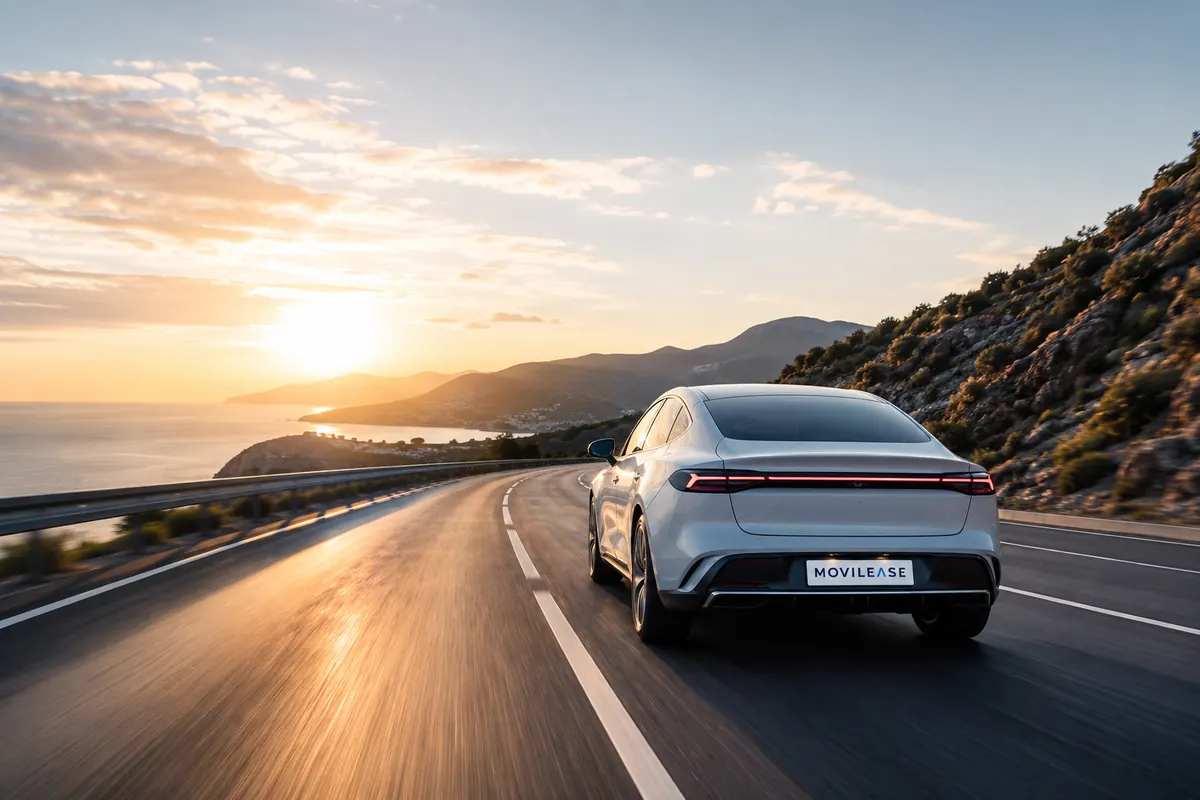
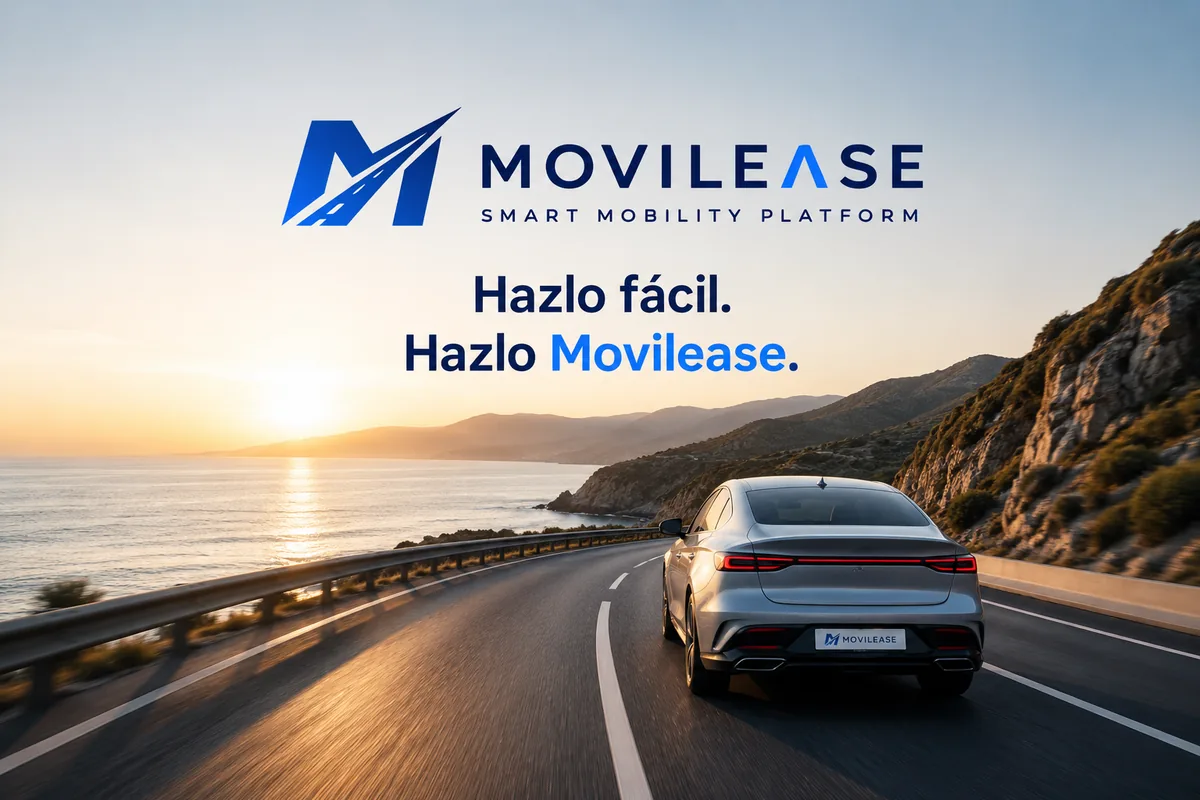
Pop-up con el creativo de marca a ancho completo y disparo a los 5 s
La imagen nueva trae dentro el logo, "Smart Mobility Platform", el eslogan
"Hazlo fácil. Hazlo Movilease." y el coche con matrícula MOVILEASE. En el
panel lateral del 46 % que tenía el pop-up, ese texto se cortaba y quedaba
ilegible, así que cambia la estructura:

- De dos columnas a una sola: banner de marca arriba a ancho completo y
  formulario debajo. Ancho máximo de 900 a 560px.
- El banner va en 16/10, casi la proporción original (3/2): recortar más se
  comía el logo. Con max-h 92vh y scroll interno para que entre en portátiles.
- El titular del formulario ya no repite el eslogan (lo dice la imagen):
  pasa directo a "Te lo calculamos gratis" y a pedir el teléfono.
- El alt describe el mensaje de la imagen, que ahora lleva texto dentro.

Disparo: 12 s -> 5 s y 22 % -> 10 % de scroll. La salida del puntero por
arriba sigue igual. Queda anotado en el código que es una decisión pedida y
cuál es la contrapartida, por si hay que revisarla con datos.

La imagen entra como WebP de 87 KB desde un PNG de 2,2 MB.

No he podido verlo renderizado: el navegador de esta sesión congela la
pestaña y React no llega a hidratar, así que el pop-up nunca llega a abrirse
ahí. Verificado el build, los tipos, el lint y que el WebP se sirve.

diff --git a/src/components/home/LeadPopup.tsx b/src/components/home/LeadPopup.tsx
@@ -23,10 +23,13 @@ export function LeadPopup() {
   const lastFocusedRef = useRef<HTMLElement | null>(null);
 
   /**
-   * Antes saltaba a los 6 segundos, sin más: interrumpía a media lectura del
-   * hero, cuando el visitante aún no sabe si le interesa. Ahora espera una
-   * señal de intención — que haya leído media página o que el cursor se vaya
-   * hacia la barra del navegador — con un plazo largo como último recurso.
+   * Se abre con lo que ocurra antes: 10 % de scroll, salida del puntero por
+   * arriba (intención de abandonar) o 5 segundos.
+   *
+   * El plazo corto lo pidió Adrián expresamente. Contrapartida conocida: a los
+   * 5 segundos mucha gente sigue leyendo el hero y aún no sabe si le interesa,
+   * así que se ve más veces pero también molesta más. Si el ratio de cierres
+   * sin rellenar sube, subir este número es lo primero que hay que tocar.
    */
   useEffect(() => {
     if (typeof window === "undefined") return;
@@ -43,13 +46,13 @@ export function LeadPopup() {
 
     const onScroll = () => {
       const max = document.documentElement.scrollHeight - window.innerHeight;
-      if (max > 0 && window.scrollY / max > 0.22) trigger();
+      if (max > 0 && window.scrollY / max > 0.10) trigger();
     };
     // Salida del puntero por el borde superior = intención de abandonar
     const onLeave = (e: MouseEvent) => {
       if (e.clientY <= 4) trigger();
     };
-    const timer = window.setTimeout(trigger, 12000);
+    const timer = window.setTimeout(trigger, 5000);
 
     function cleanup() {
       window.clearTimeout(timer);
@@ -118,7 +121,7 @@ export function LeadPopup() {
             role="dialog"
             aria-modal="true"
             aria-labelledby="popup-titulo"
-            className="relative grid w-full max-w-[900px] grid-cols-1 overflow-hidden rounded-[28px] border border-white/12 sm:grid-cols-[46%_1fr]"
+            className="relative flex max-h-[92vh] w-full max-w-[560px] flex-col overflow-y-auto rounded-[28px] border border-white/12"
             style={{
               boxShadow:
                 "0 0 0 1px rgba(255,255,255,0.05), 0 30px 90px rgba(0,0,0,0.65), 0 0 140px rgba(0,104,255,0.12)",
@@ -135,43 +138,29 @@ export function LeadPopup() {
               </svg>
             </button>
 
-            {/* Panel visual */}
-            <div className="relative h-48 sm:h-auto">
-              {/* Foto propia de marca (lleva la matricula MOVILEASE). El panel
-                  es estrecho y vertical y la foto apaisada, asi que el foco se
-                  desplaza al coche para que no se pierda en el recorte. */}
+            {/* Banner de marca. El creativo ya trae el logo, el eslogan y el
+                coche, asi que va a ancho completo y en 16/10, que es casi la
+                proporcion original (3/2): recortar mas cortaria el logo. */}
+            <div className="relative aspect-[16/10] w-full shrink-0">
               <Image
                 src="/img/popup-movilease.webp"
-                alt=""
+                alt="MoviLease — Hazlo fácil. Hazlo Movilease."
                 fill
                 priority
-                sizes="(max-width: 640px) 100vw, 420px"
-                className="object-cover object-[62%_center] scale-105"
+                sizes="(max-width: 640px) 100vw, 560px"
+                className="object-cover object-center"
               />
-              {/* Blend hacia el panel de texto: lateral en desktop, inferior en móvil */}
+              {/* Fundido inferior hacia el formulario */}
               <div
-                className="absolute inset-0 sm:hidden"
-                style={{
-                  background: "linear-gradient(180deg, rgba(4,14,33,0.15) 0%, rgba(4,14,33,0.55) 70%, #071638 100%)",
-                }}
-              />
-              <div
-                className="absolute inset-0 hidden sm:block"
-                style={{
-                  background:
-                    "linear-gradient(90deg, rgba(4,14,33,0.05) 0%, rgba(4,14,33,0.35) 55%, #071638 96%)",
-                }}
-              />
-              <div
-                className="pointer-events-none absolute inset-x-0 top-0 h-16"
-                style={{ background: "linear-gradient(180deg, rgba(4,14,33,0.55) 0%, transparent 100%)" }}
+                className="pointer-events-none absolute inset-x-0 bottom-0 h-24"
+                style={{ background: "linear-gradient(180deg, transparent 0%, rgba(20,52,112,0.85) 70%, #143470 100%)" }}
               />
 
-              {/* Insignia flotante de prueba social sobre la foto */}
-              <div className="absolute bottom-4 left-4 flex items-center gap-2 rounded-full border border-white/15 bg-black/35 py-1.5 pl-2 pr-3.5 backdrop-blur-md">
+              {/* Prueba social flotante sobre la foto */}
+              <div className="absolute bottom-3 left-4 flex items-center gap-2 rounded-full border border-white/20 bg-black/40 py-1.5 pl-2 pr-3.5 backdrop-blur-md">
                 <span className="flex gap-0.5">
                   {Array.from({ length: 5 }).map((_, i) => (
-                    <svg key={i} viewBox="0 0 12 12" fill="#5AA0FF" className="h-3 w-3">
+                    <svg key={i} viewBox="0 0 12 12" fill="#8FBEFF" className="h-3 w-3">
                       <path d="M6 0l1.5 4h4.5l-3.5 2.5 1.5 4L6 8.5 2 10.5l1.5-4L0 4h4.5z" />
                     </svg>
                   ))}
@@ -184,7 +173,7 @@ export function LeadPopup() {
 
             {/* Panel de formulario */}
             <div
-              className="relative px-8 pb-8 pt-9 sm:px-9"
+              className="relative px-7 pb-7 pt-6 sm:px-8"
               style={{
                 background:
                   "linear-gradient(165deg, rgba(20,52,112,0.97) 0%, rgba(6,22,52,0.99) 62%, rgba(4,14,33,1) 100%)",
@@ -234,18 +223,18 @@ export function LeadPopup() {
                 </motion.div>
               ) : (
                 <div className="relative">
-                  <p className="section-label mb-4">Asesoramiento gratuito</p>
+                  {/* La imagen ya dice "Hazlo facil. Hazlo Movilease.": aqui
+                      no se repite, se pasa directo a la accion. */}
                   <h2
                     id="popup-titulo"
-                    className="text-[27px] font-bold leading-[1.08] text-white"
+                    className="text-[22px] font-bold leading-tight text-white"
                     style={{ fontFamily: "var(--font-space-grotesk)", letterSpacing: "-0.02em" }}
                   >
-                    Tu próximo coche,
-                    <br />
-                    <span className="text-[#5AA0FF]">sin complicaciones.</span>
+                    Te lo calculamos <span className="text-[#8FBEFF]">gratis</span>.
                   </h2>
-                  <p className="mt-3 text-[14.5px] leading-relaxed text-white/75">
-                    Déjanos tus datos y te asesoramos sin compromiso. Sin entrada, todo incluido.
+                  <p className="mt-2 text-[14.5px] leading-relaxed text-white/75">
+                    Déjanos tu teléfono y te asesoramos sin compromiso. Sin entrada,
+                    todo incluido.
                   </p>
 
                   <form onSubmit={submit} className="mt-7 flex flex-col gap-3">
